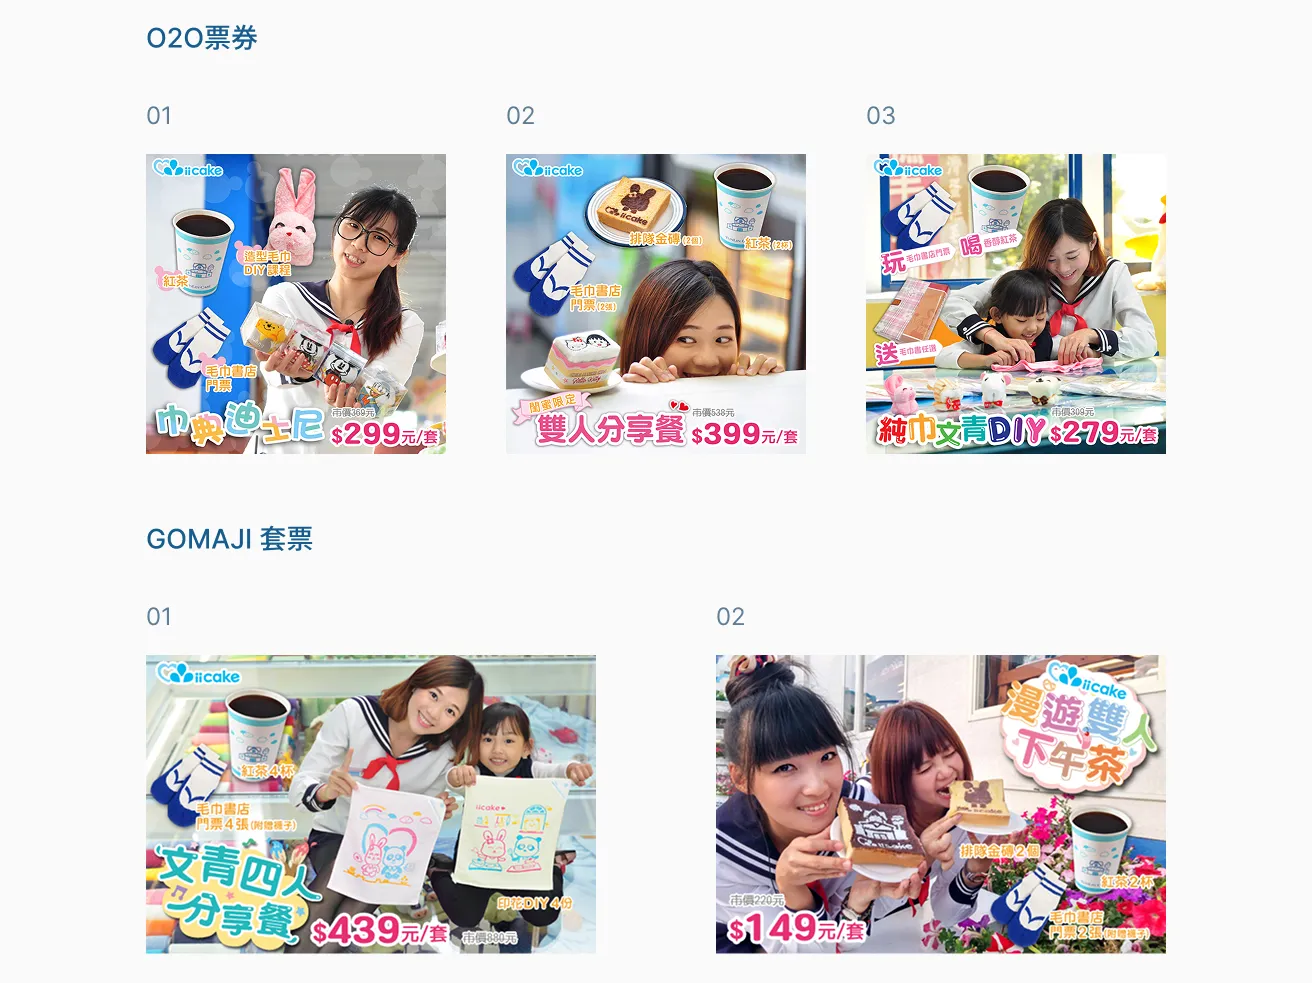
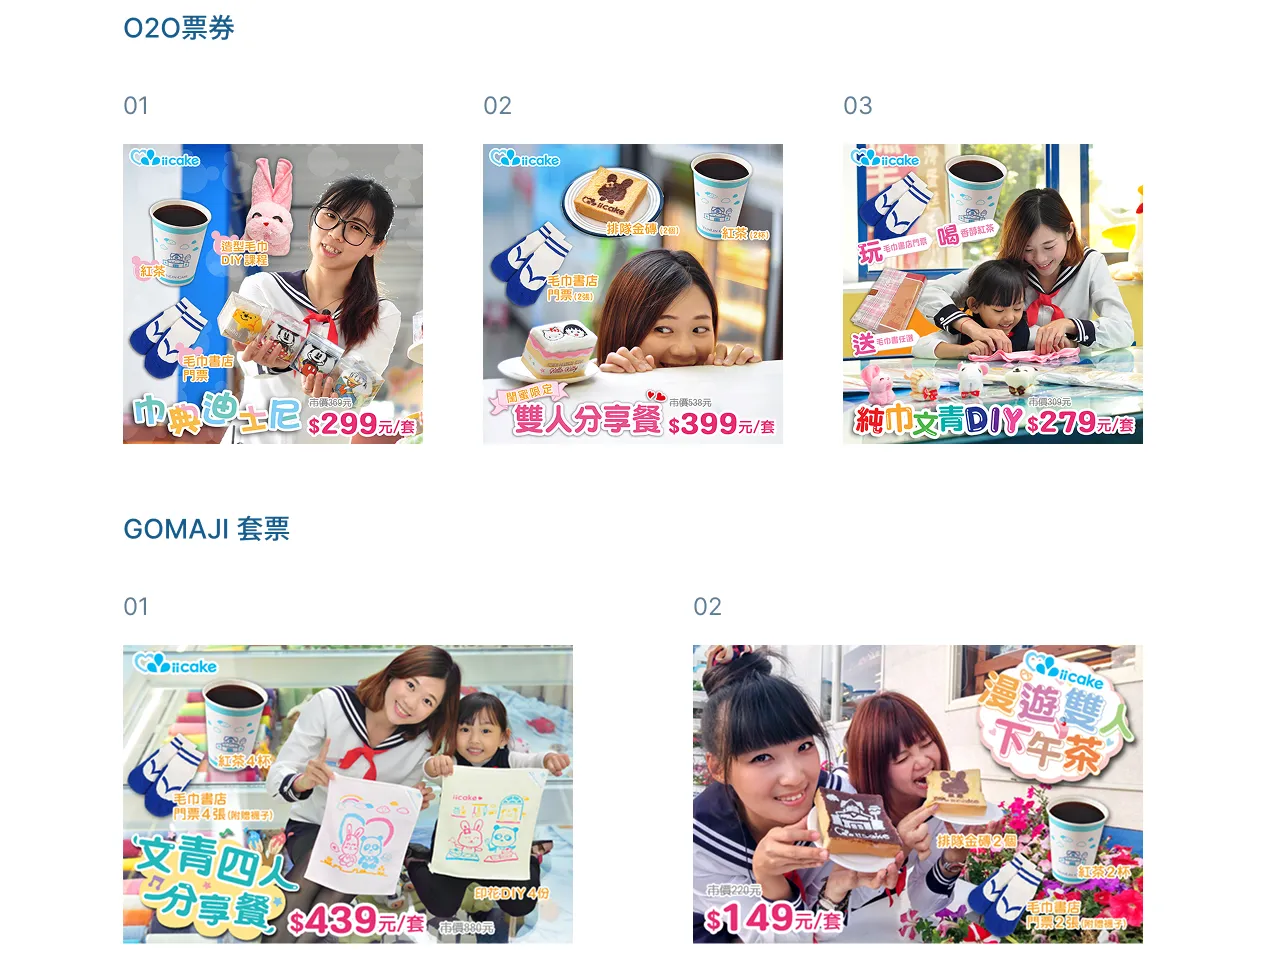
新增勇闖宇宙學院設計詳情

diff --git a/portfolio-5-branding.html b/portfolio-5-branding.html
@@ -4,7 +4,7 @@
   <meta charset="utf-8">
   <meta name="viewport" content="width=device-width, initial-scale=1">
   <meta name="description" content="產品設計作品詳情頁">
-  <title>黑鐵板料理｜Brand Campaign & Spatial Applications</title>
+  <title>iicake勇闖宇宙學院｜Brand Campaign & Spatial Applications</title>
 
   <!-- Fonts -->
   <link href="https://fonts.googleapis.com" rel="preconnect">
@@ -55,7 +55,7 @@
       </nav>
 
       <p class="eyebrow">Branding · Branding · Restaurant Brand Identity &amp; Spatial Applications</p>
-      <h1>黑鐵板料理</h1>
+      <h1>iicake勇闖宇宙學院</h1>
       <p class="page-lead">以業主英文名 Black 與鐵板料理意象為設計起點，重新建立餐飲品牌 Logo，並延伸至菜單與餐飲用品的應用方向。</p>
     </section>
 
@@ -83,7 +83,7 @@
     <section class="hero-media container">
       <figure class="media-frame media-frame--hero">
         <!-- 目前沿用首頁的品牌主視覺；若有週年慶完整主視覺，請替換此路徑。 -->
-        <img src="assets/img/portfolio/branding/2-branding hero.webp" alt="黑鐵板料理品牌 Logo，結合「黑」字、紅色筆刷與 Black 英文字樣，並搭配鐵板料理意象。" loading="eager">
+        <img src="assets/img/portfolio/branding/5-branding hero.webp" alt="黑鐵板料理品牌 Logo，結合「黑」字、紅色筆刷與 Black 英文字樣，並搭配鐵板料理意象。" loading="eager">
       </figure>
     </section>
 
@@ -120,7 +120,7 @@
       <div class="gallery gallery--feature">
         <figure class="media-card media-card--wide">
           <!-- 建議替換為週年慶主視覺或完整看板。 -->
-          <img src="assets/img/portfolio/branding/2-branding kv.webp" alt="「黑」字、紅色筆刷與 Black 英文字樣的品牌識別組合" loading="lazy">
+          <img src="assets/img/portfolio/branding/5-branding kv.webp" alt="「黑」字、紅色筆刷與 Black 英文字樣的品牌識別組合" loading="lazy">
           <figcaption>
             <strong>Brand Identity</strong>
             <span>黑鐵板料理 Logo 主識別</span>
@@ -130,14 +130,14 @@
 
       <div class="gallery gallery--two">
         <figure class="media-card">
-          <img src="assets/img/portfolio/branding/2-branding dwg.webp" alt="從「黑」、紅色筆刷與 Black 英文名稱發展出的識別構成" loading="lazy">
+          <img src="assets/img/portfolio/branding/5-branding dm.webp" alt="從「黑」、紅色筆刷與 Black 英文名稱發展出的識別構成" loading="lazy">
           <figcaption>
             <strong>Design Concept</strong>
             <span>Logo 設計概念</span>
           </figcaption>
         </figure>
         <figure class="media-card">
-          <img src="assets/img/portfolio/branding/2-branding kvtitle.webp" alt="主標、橫式、直式與單一符號的識別延伸" loading="lazy">
+          <img src="assets/img/portfolio/branding/5-branding ad.webp" alt="主標、橫式、直式與單一符號的識別延伸" loading="lazy">
           <figcaption>
             <strong> Logo System</strong>
             <span>Logo 組合與應用形式</span>
@@ -155,14 +155,14 @@
 
       <div class="gallery gallery--two">
         <figure class="media-card">
-          <img src="assets/img/portfolio/branding/2-branding pd.webp" alt="筷子套、濕紙巾與杯墊上的 Logo 應用方向" loading="lazy">
+          <img src="assets/img/portfolio/branding/5-branding pkg.webp" alt="筷子套、濕紙巾與杯墊上的 Logo 應用方向" loading="lazy">
           <figcaption>
             <strong>Brand Applications</strong>
             <span>筷子與餐飲用品照片為 AI 生成情境示意，僅用於呈現品牌識別的應用方式。</span>
           </figcaption>
         </figure>
         <figure class="media-card">
-          <img src="assets/img/portfolio/branding/2-branding dm.webp" alt="以黑鐵板料理 Logo 建立菜單封面、內頁與餐點資訊的視覺方向" loading="lazy">
+          <img src="assets/img/portfolio/branding/5-branding scen.webp" alt="以黑鐵板料理 Logo 建立菜單封面、內頁與餐點資訊的視覺方向" loading="lazy">
           <figcaption>
             <strong>Menu Application</strong>
             <span>菜單畫面為 AI 生成情境示意，僅用於呈現品牌識別的應用方式。</span>

diff --git a/index.html b/index.html
@@ -622,7 +622,7 @@
                       <a href="assets/img/portfolio/branding/5-branding.webp" class="glightbox zoom-link" data-gallery="gallery-branding" title="勇闖宇宙學院">
                         <i class="bi bi-zoom-in"></i>
                       </a>
-                      <a href="portfolio-details.html" class="details-link" title="View Project Details">
+                      <a href="portfolio-5-branding.html" class="details-link" title="View Project Details">
                         <i class="bi bi-arrow-right"></i>
                       </a>
                     </div>
